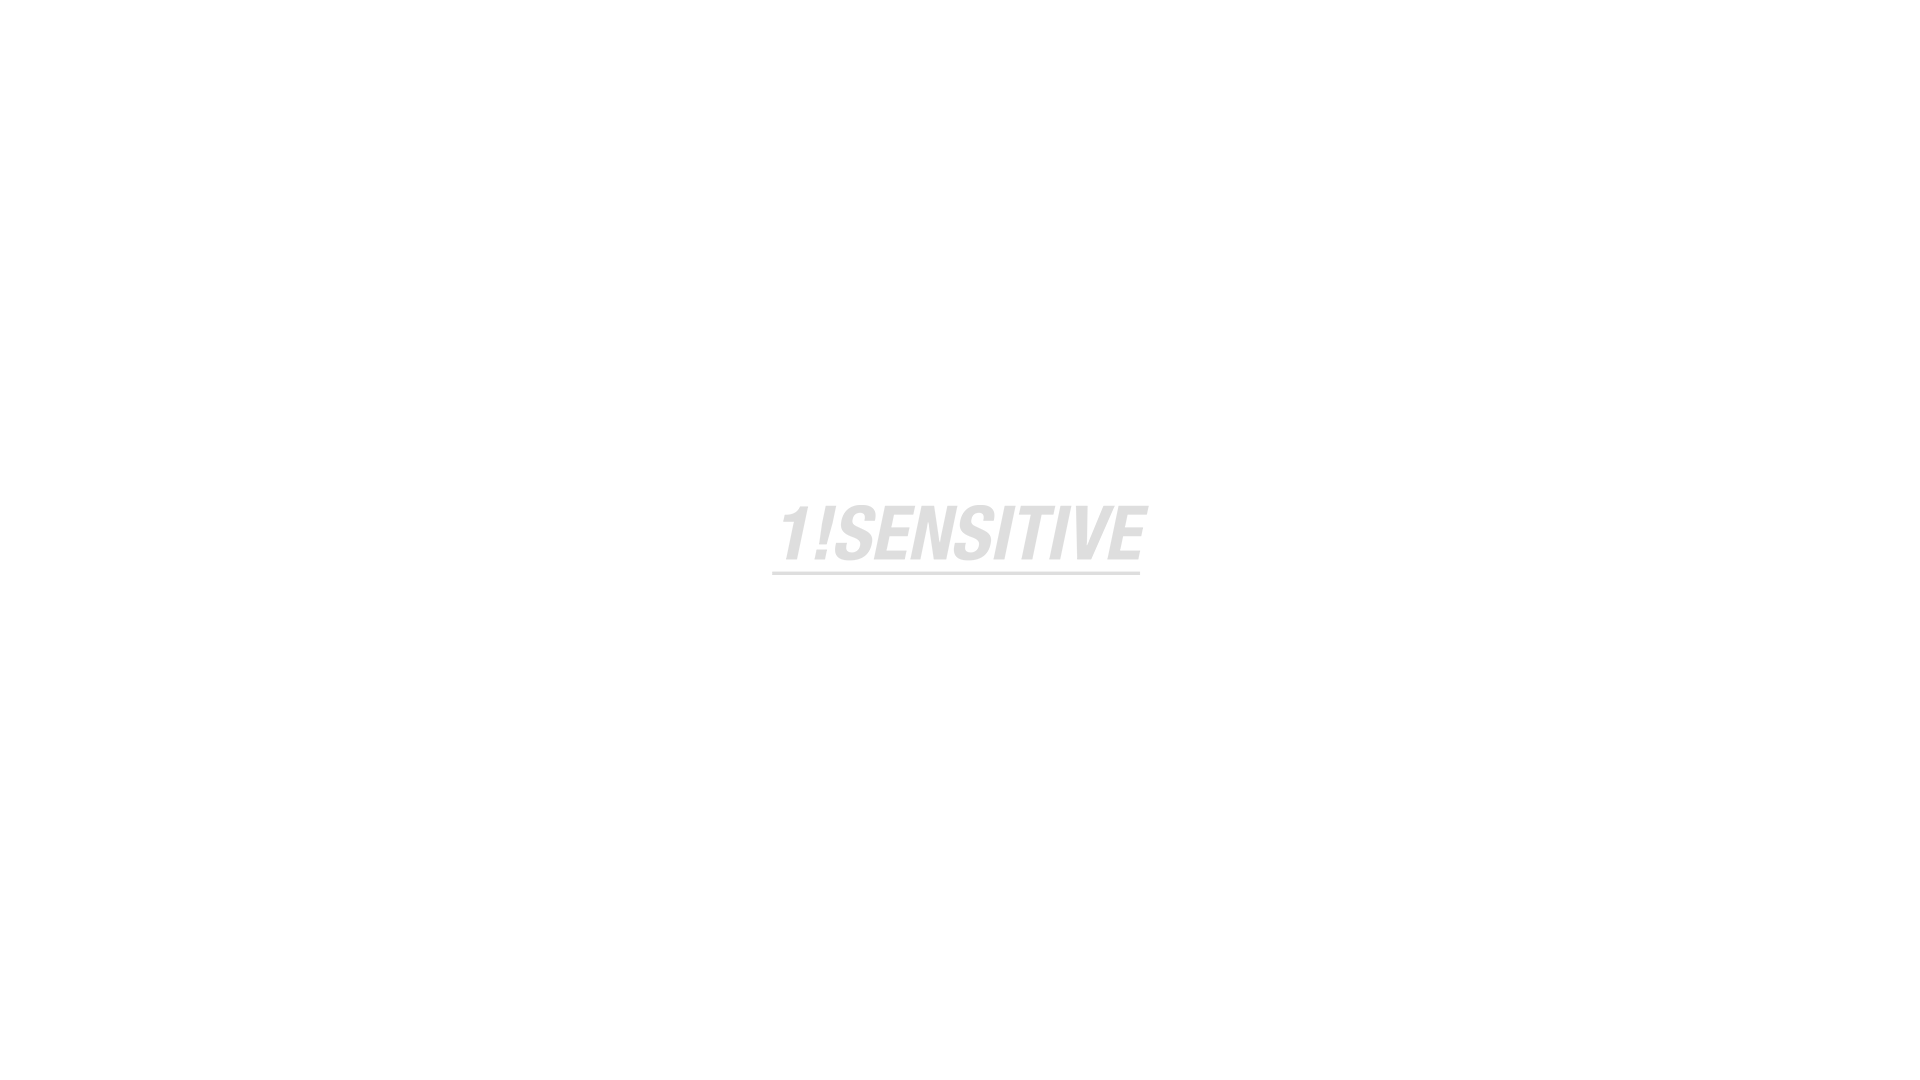
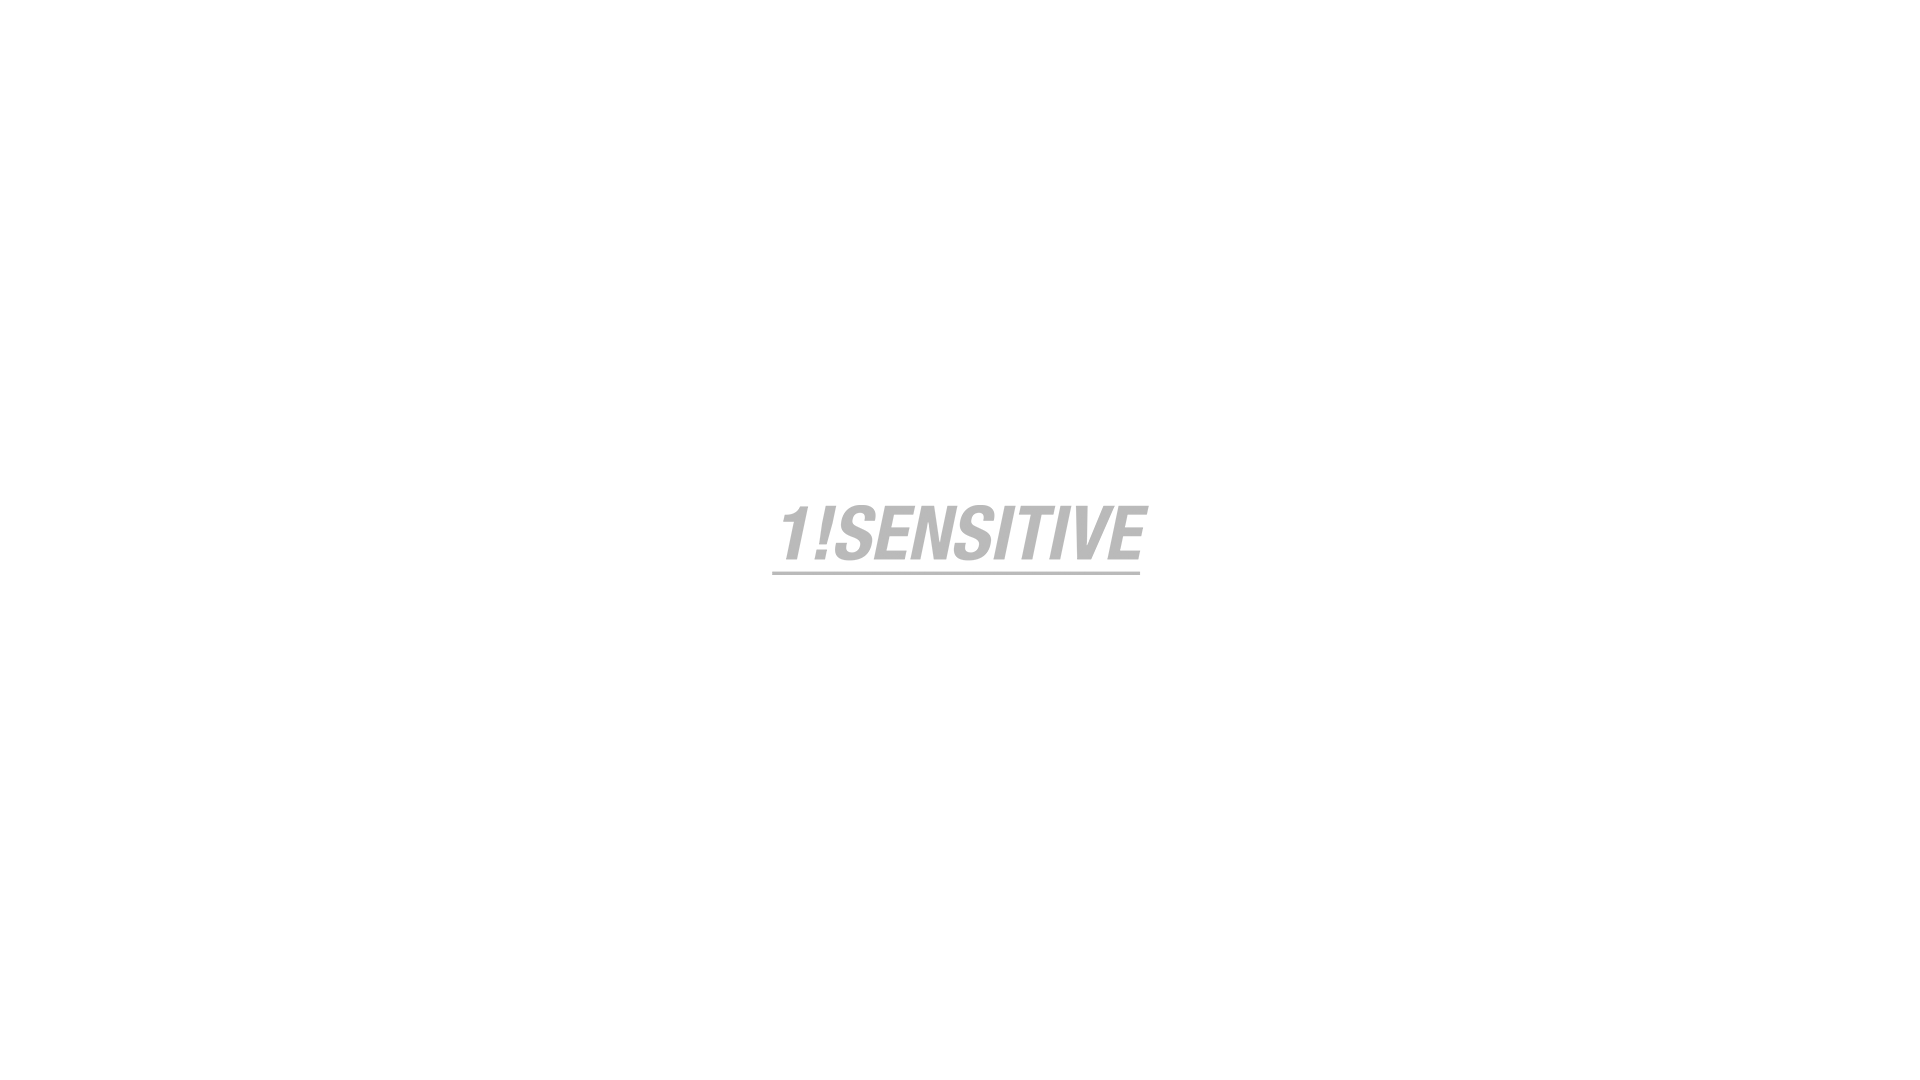
final

Changed region(s): [[0.4062, 0.4583, 0.5938, 0.5194]]

diff --git a/layout4.html b/layout4.html
@@ -26,6 +26,7 @@
         }
         nav{
             margin-left: 1100px;
+
         }
         nav li{
             float: left;
@@ -50,7 +51,8 @@
         .content1>h1{
             position: absolute;
             top: 400px;
-            left: 278px;}
+            left: 200px;
+            background-color: #d2d6d9;}
         .content1>p{
             position: absolute;
             top: 1271px;
@@ -96,6 +98,11 @@
             z-index: -999;
             background-image: url(imgs/layout4_bbg.png);
             background-attachment: fixed;
+            text-shadow:
+                    -1px -1px 0 #000,
+                    1px -1px 0 #000,
+                    -1px 1px 0 #000,
+                    1px 1px 0 #000;
 
         }
         .content3_1{
@@ -169,7 +176,12 @@
         a{
             text-decoration: none;
         }
-        a:link { color: black; }
+        a:link { color: black;
+            text-shadow:
+                    -1px -1px 0 #d2d6d9,
+                    1px -1px 0 #d2d6d9,
+                    -1px 1px 0 #d2d6d9,
+                    1px 1px 0 #d2d6d9;}
 
         a:visited { color: black; }
 
@@ -185,7 +197,7 @@
 </head>
 <body>
     <header>
-        <img src="imgs/sens_logo.png" alt="logo">
+        <img src="imgs/sens_logo_gray.png" alt="logo">
         <nav>
             <ul>
                 <li><a href="index.html">INDEX</a></li>
